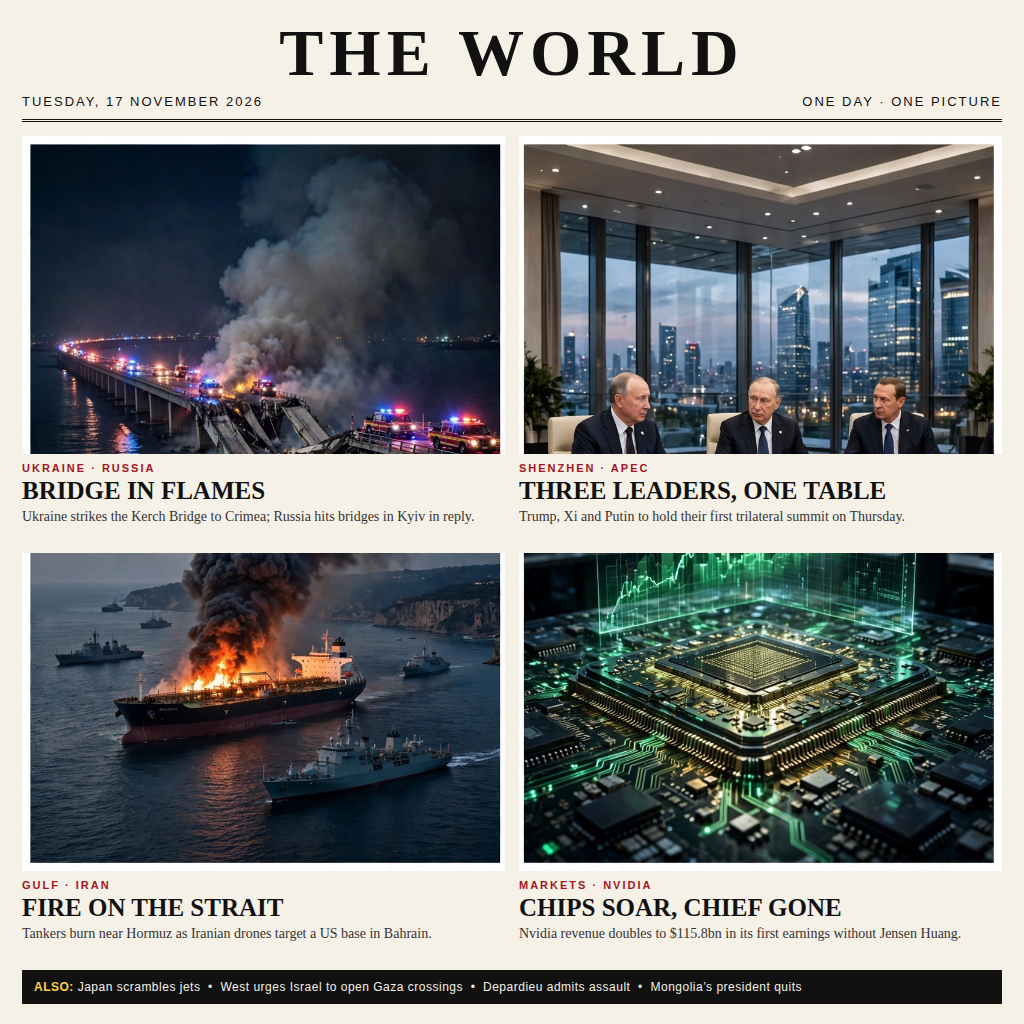
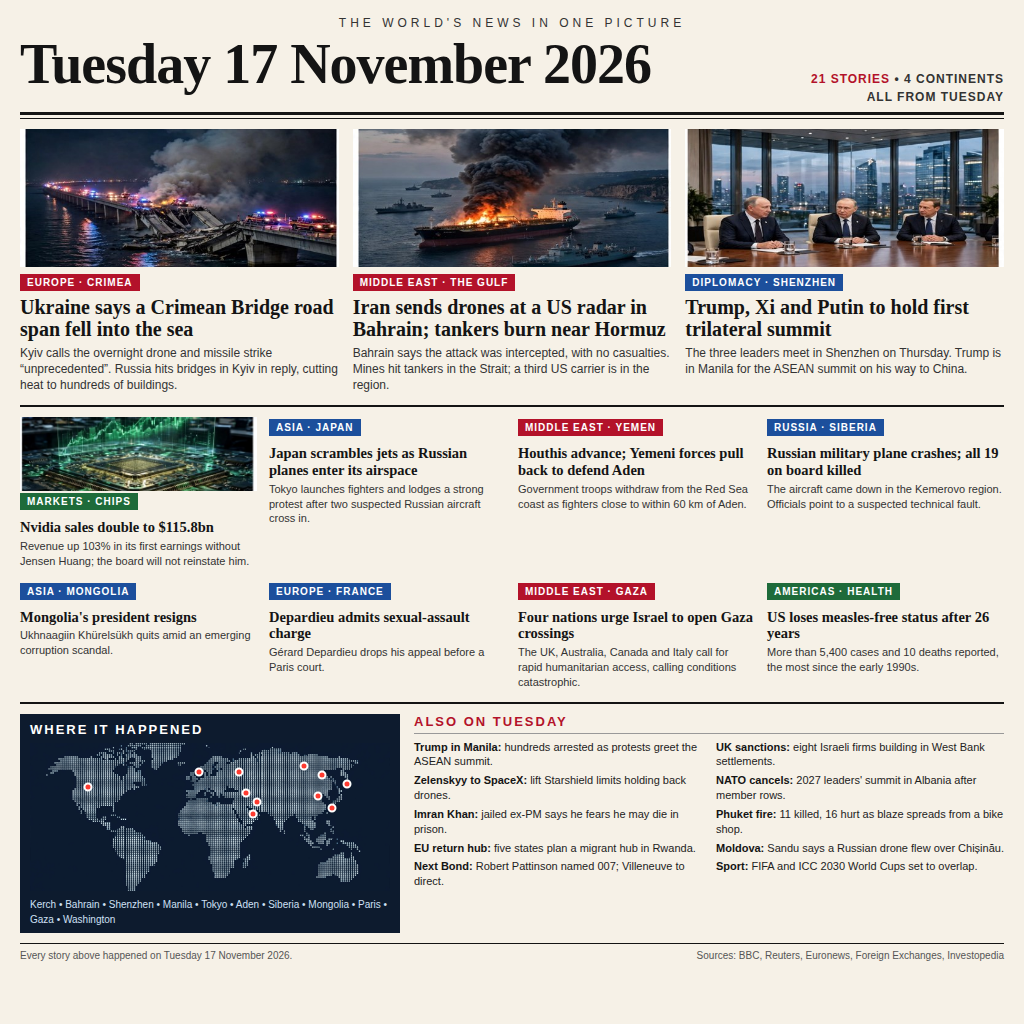
Round 2: dense 21-story infographic front page

diff --git a/README.md b/README.md
@@ -1,6 +1,6 @@
 # The World in One Picture — 17 November 2026
 
-This image sums up Tuesday 17 November 2026's world news: the Kerch Bridge was struck; a Trump–Xi–Putin trilateral summit was announced for Shenzhen; tankers were burning near Hormuz as Iranian drones targeted a US base in Bahrain; and Nvidia reported $115.8bn in revenue in its first earnings without Jensen Huang. The ticker also covers Japan scrambling jets, the West urging Israel to open Gaza crossings, Depardieu admitting assault, and Mongolia's president resigning.
+This dense newspaper front page is dated “Tuesday 17 November 2026” and presents 21 verified stories from that day. Its top stories cover the Kerch Bridge strike, Iran's drones on a US radar in Bahrain as tankers burn near Hormuz, and the Trump–Xi–Putin summit set for Shenzhen. Other coverage includes Nvidia's 15.8bn earnings, Japan scrambling jets, the Houthi advance in Yemen, a Russian military plane crash, Mongolia's president resigning, Depardieu admitting a charge, the plea to open Gaza crossings, and the US losing measles-free status. The page also includes a world map and an “Also on Tuesday” list.
 
 The program copies `entry.png` to `/output/entry.png` (or to the directory set in `MAKEFUN_OUTPUT_DIR`).
 
